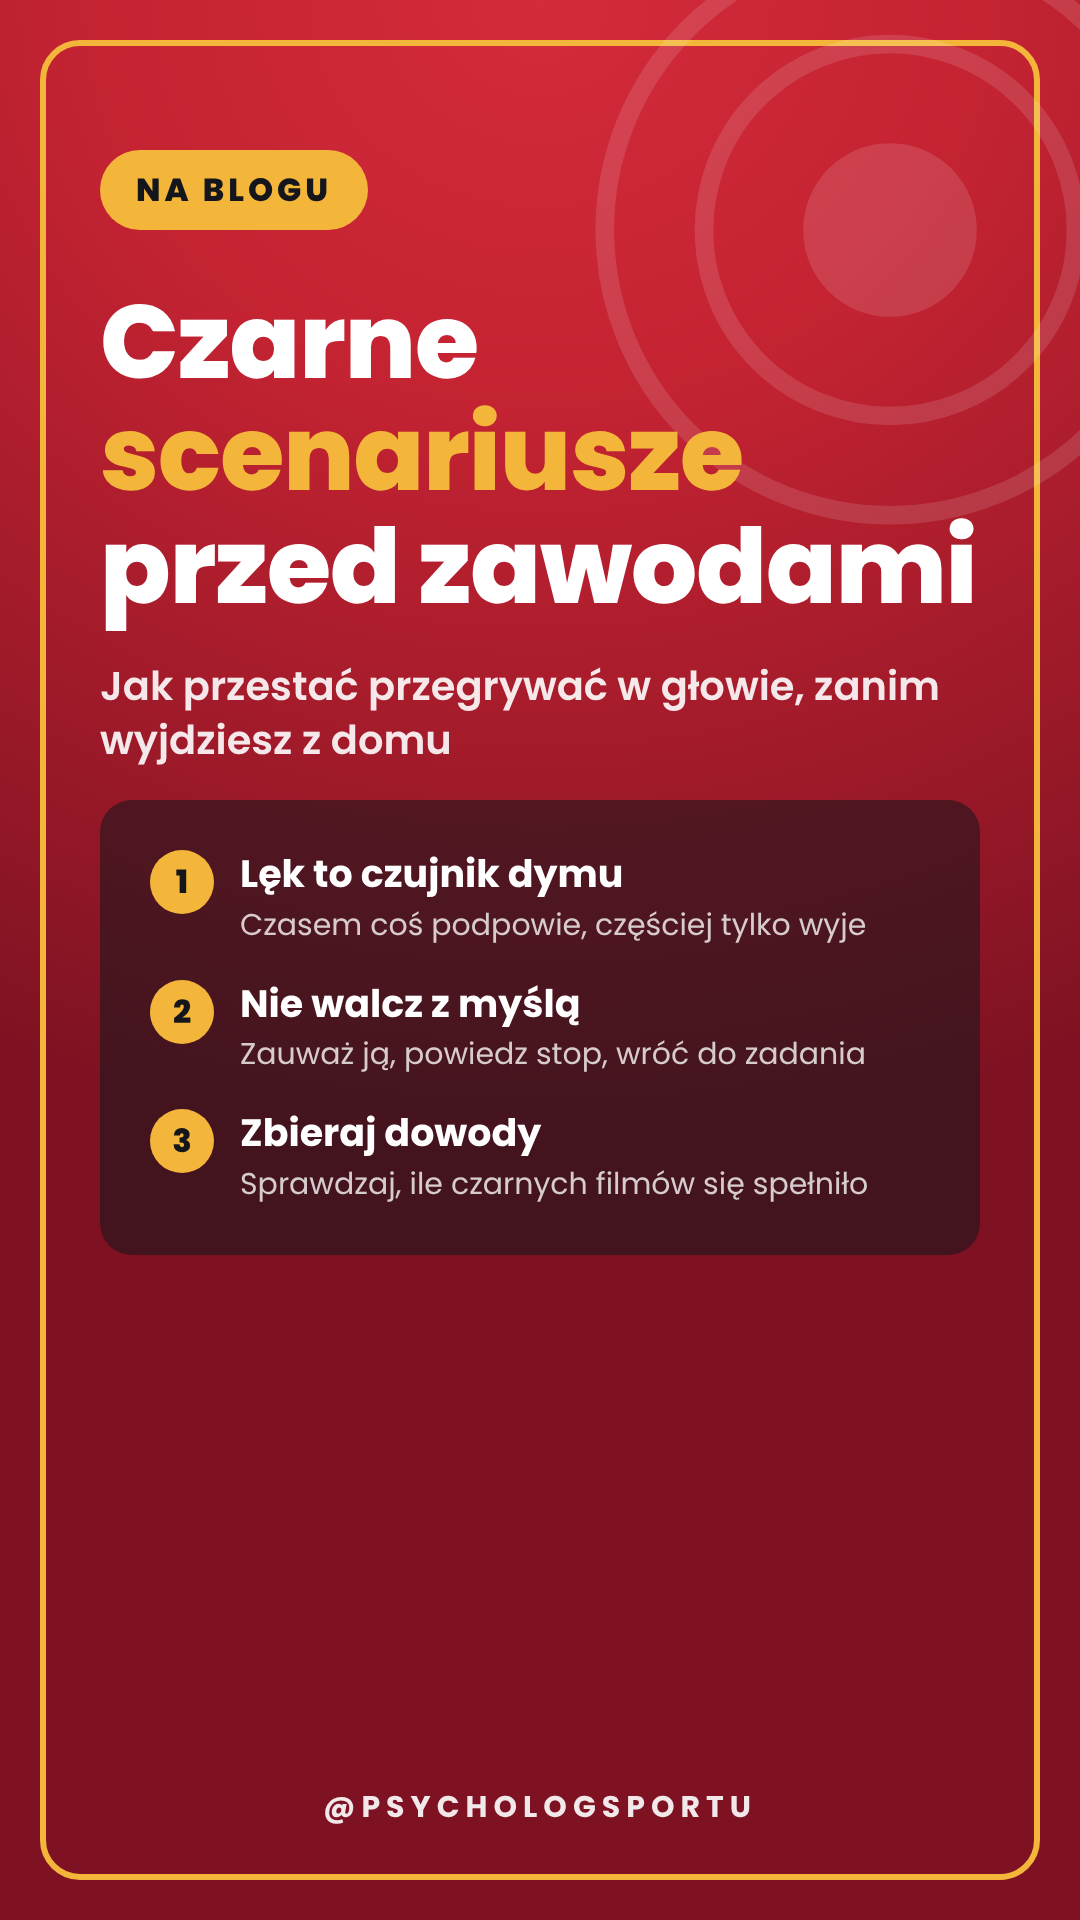
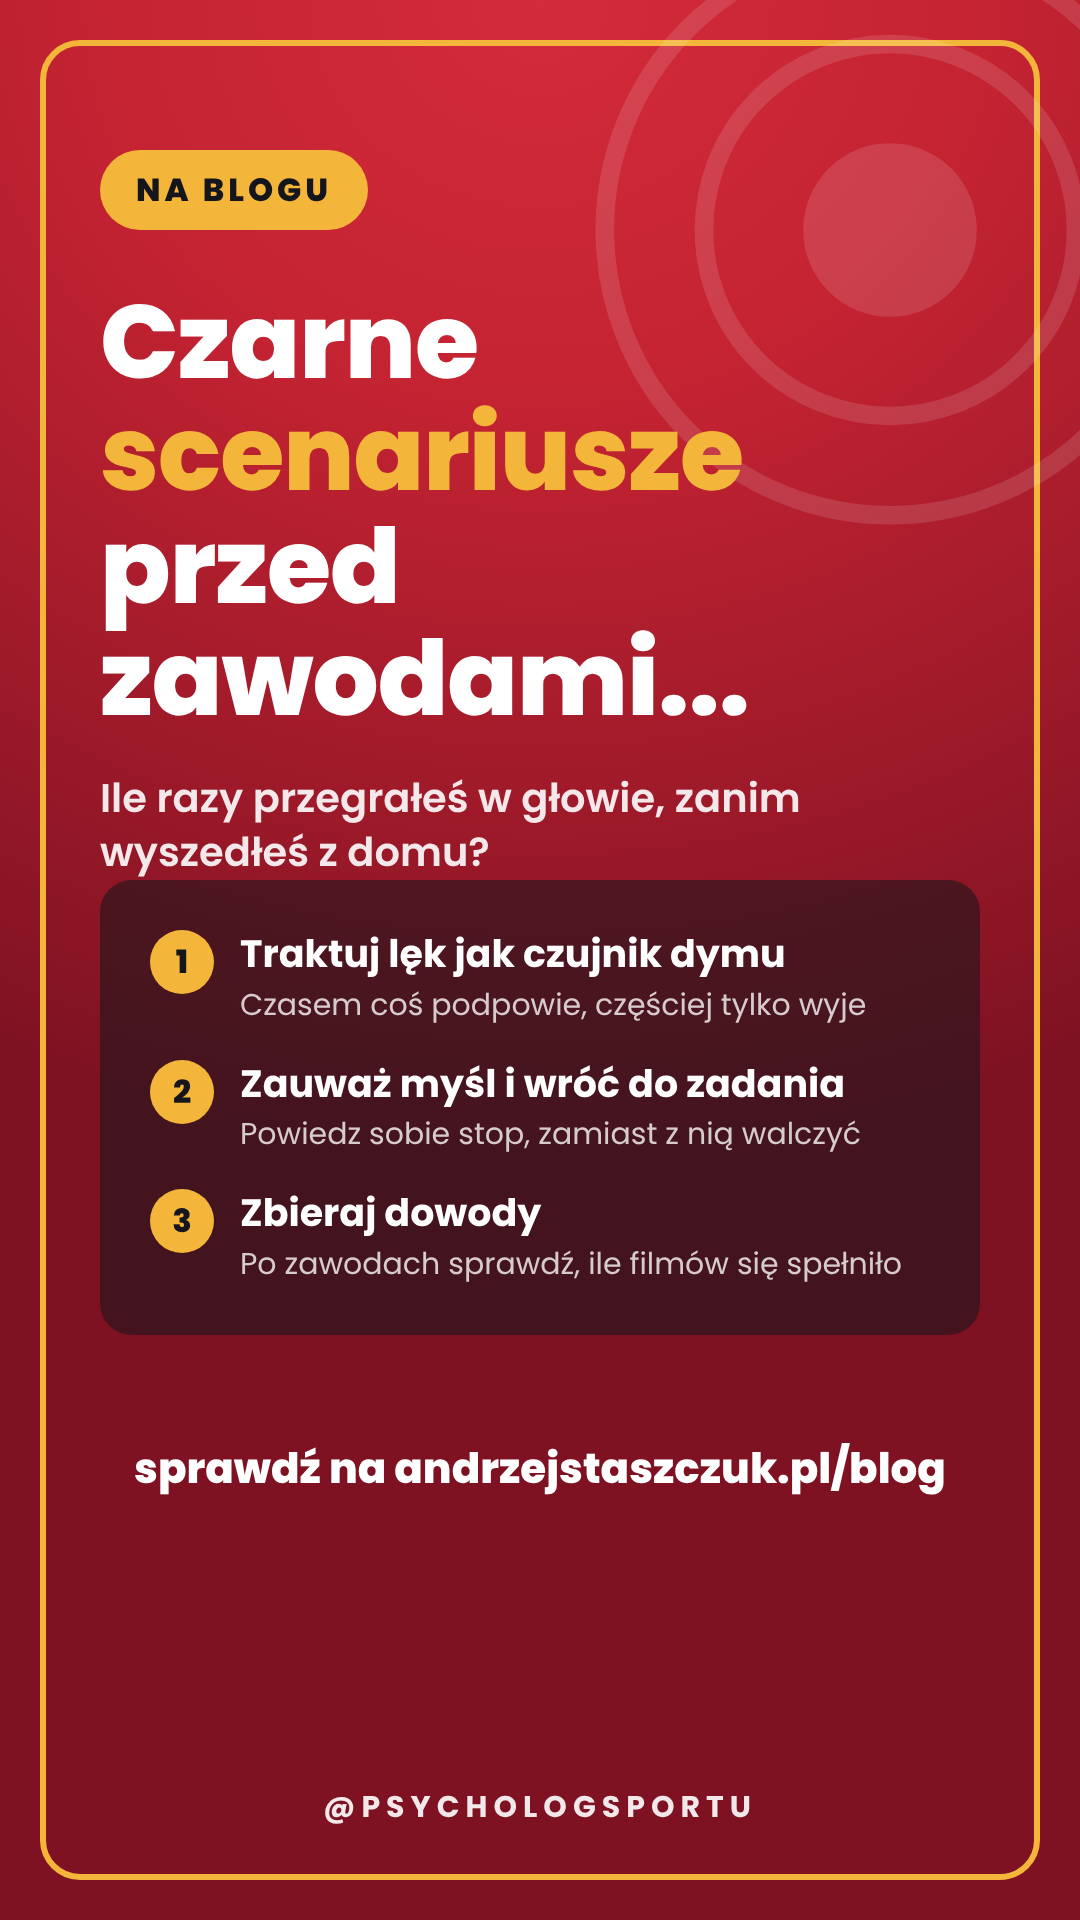
Relacje z bloga 26-28.11 według poprawek z panelu
Claude-Session: https://claude.ai/code/session_01A5PTvWpyS7iEo6fG2kmJPS

Changed region(s): [[0.0917, 0.25, 0.9167, 0.7188], [0.1222, 0.75, 0.8861, 0.7812]]

diff --git a/tools/relacja-wpis.js b/tools/relacja-wpis.js
@@ -1,4 +1,4 @@
-// Bez strzałki (decyzja Andrzeja 26.11.2026): dół zostaje pusty na naklejkę Link z nazwą wpisu; cta opcjonalne, domyślnie brak.
+// Relacje z bloga (zasady Andrzeja 26.11.2026): bez strzałki; podtytuł jako pytanie do czytelnika; punkty jako polecenia, obrazowo; na dole cta: sprawdź na andrzejstaszczuk.pl/blog, pod nim wolne miejsce na naklejkę z linkiem (nazwa naklejki = tytuł wpisu). Pełna lista: relacje-marki/UWAGI-ANDRZEJA.md
 // Relacja IG 1080x1920 zapowiadająca wpis na blogu (@psychologsportu).
 // node relacja-wpis.js '{"kicker","t1","hl","t2","sub","items":[{"t","d"}],"cta"}' out.png
 const path = require('path');

diff --git a/relacje-marki/UWAGI-ANDRZEJA.md b/relacje-marki/UWAGI-ANDRZEJA.md
@@ -5,3 +5,4 @@
 - 26.11.2026 (telefon): punkty pełniejszym, obrazowym zdaniem z jego metafory (Łyżką, chochlą, a potem wiaderkiem), nie samymi rzeczownikami.
 - 26.11.2026 (telefon): punkty jako polecenie do działania (Zarządzaj otoczeniem), konkretniej (Każda godzina mniej w nocy).
 - 26.11.2026 (telefon): na dole napis z adresem: sprawdź na andrzejstaszczuk.pl/blog (nad miejscem na naklejkę); tytuł może kończyć się wielokropkiem.
+- 26.11.2026: te zasady obowiązują w każdej nowej relacji z bloga. Gdy tytuł ma 4 linijki, przesuń listę niżej (itemsTop 880, ctaBottom 420), żeby nic na siebie nie nachodziło.
